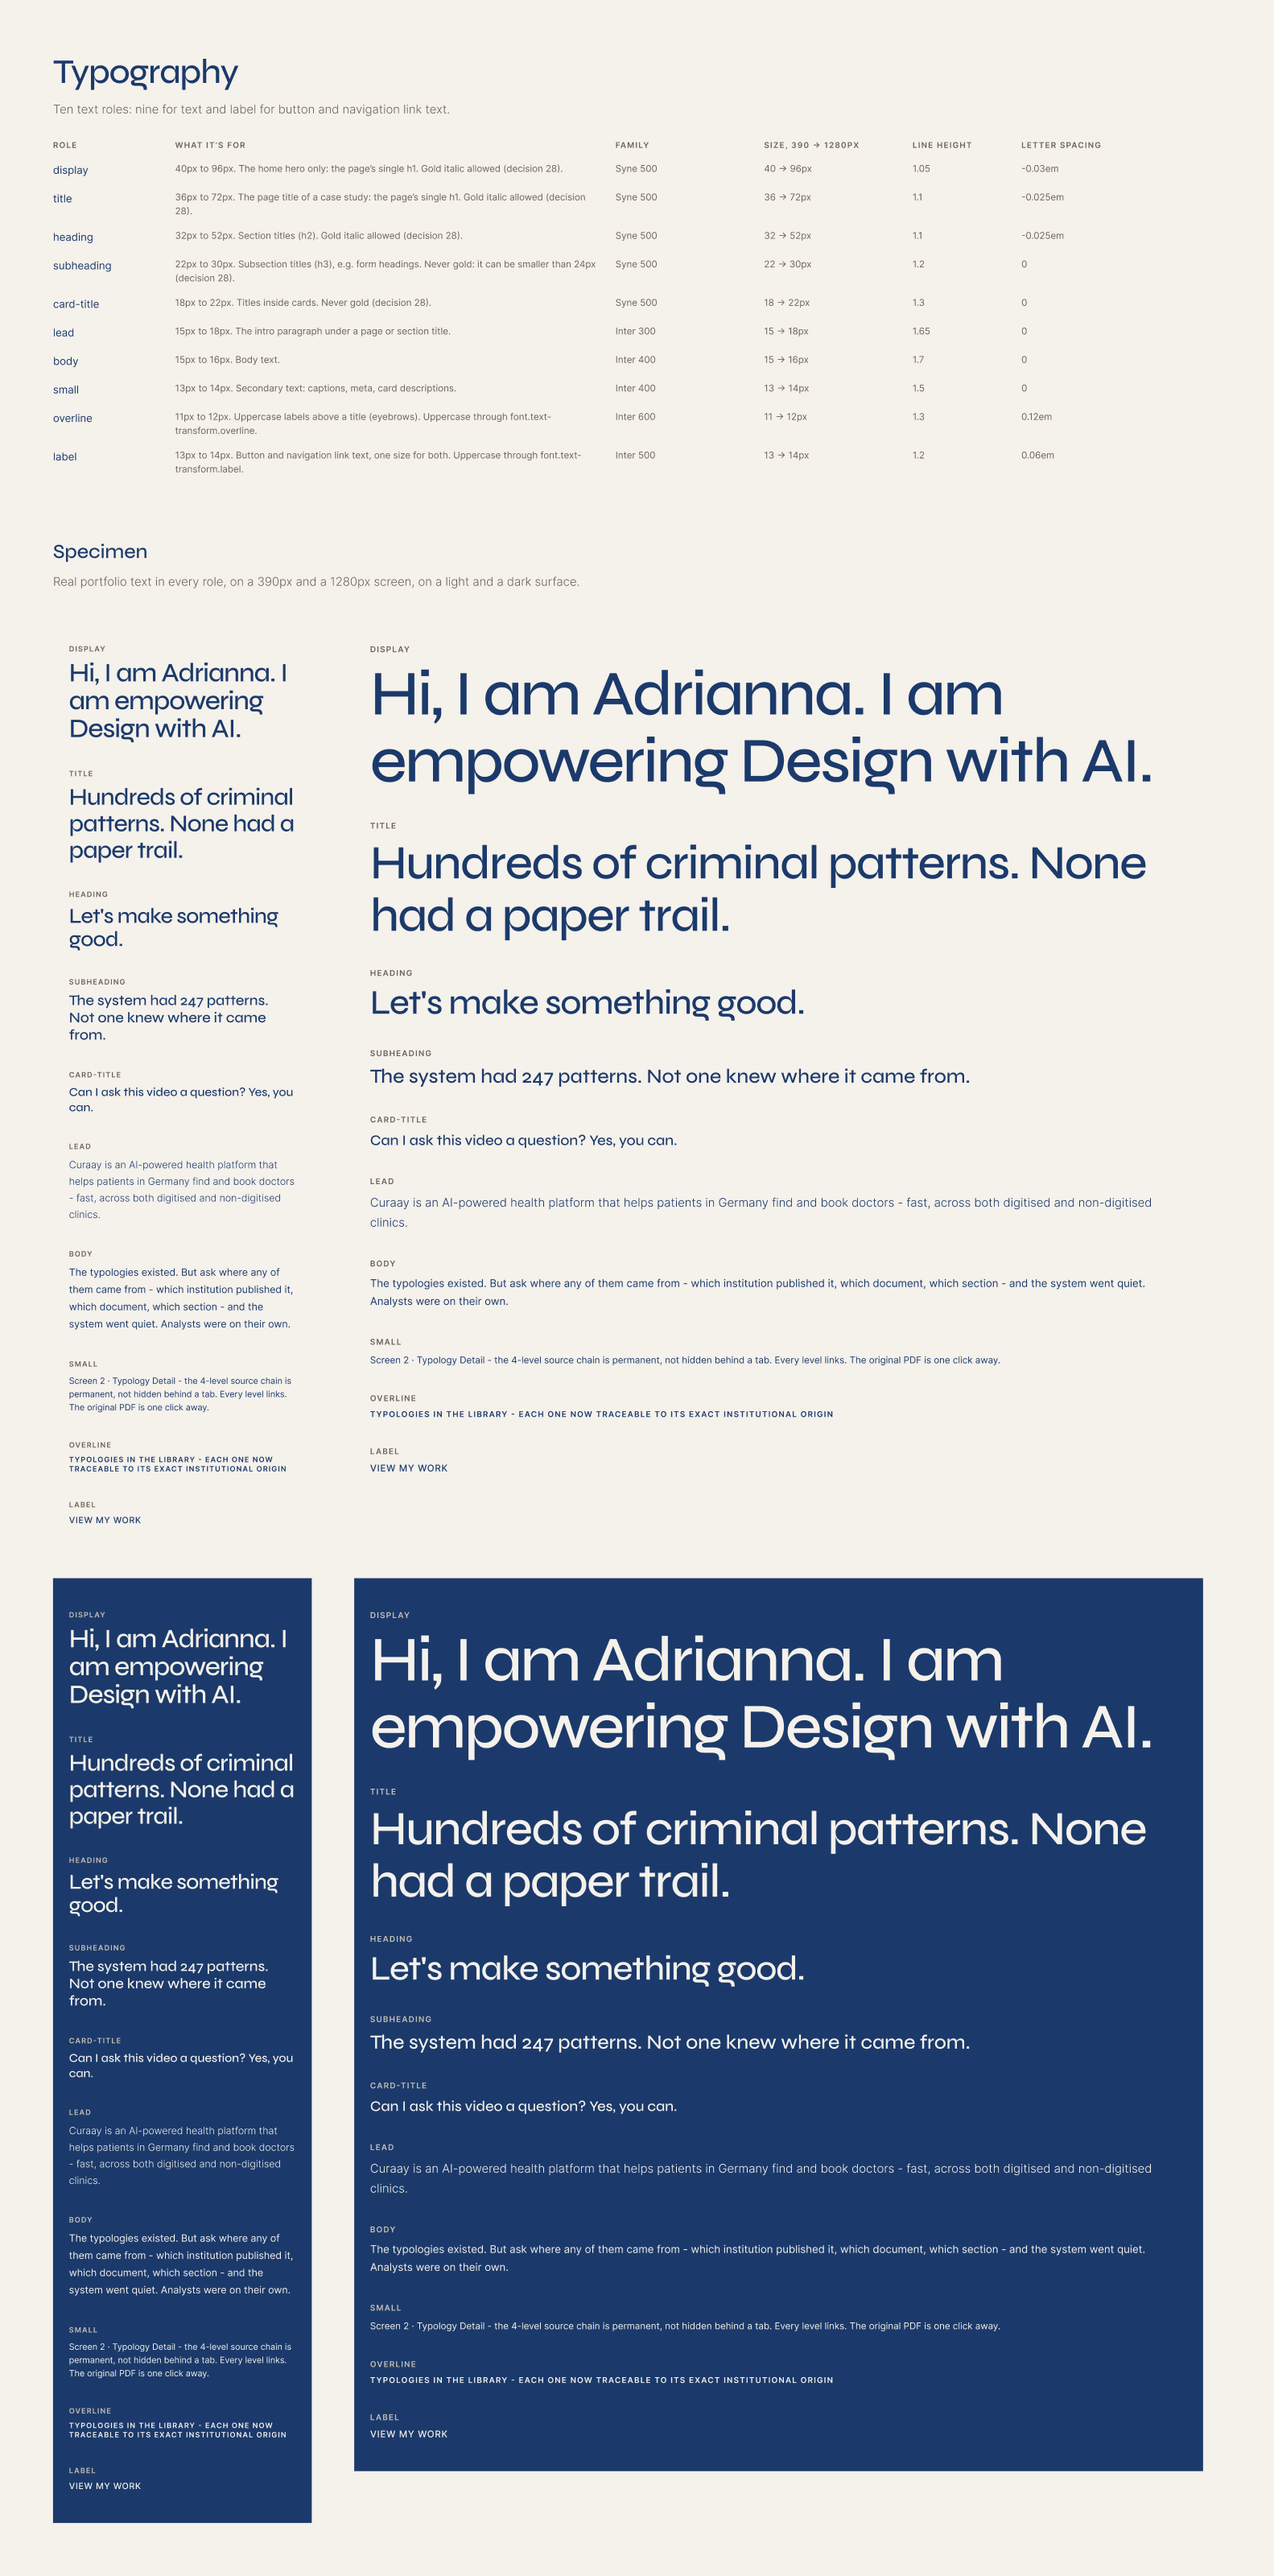
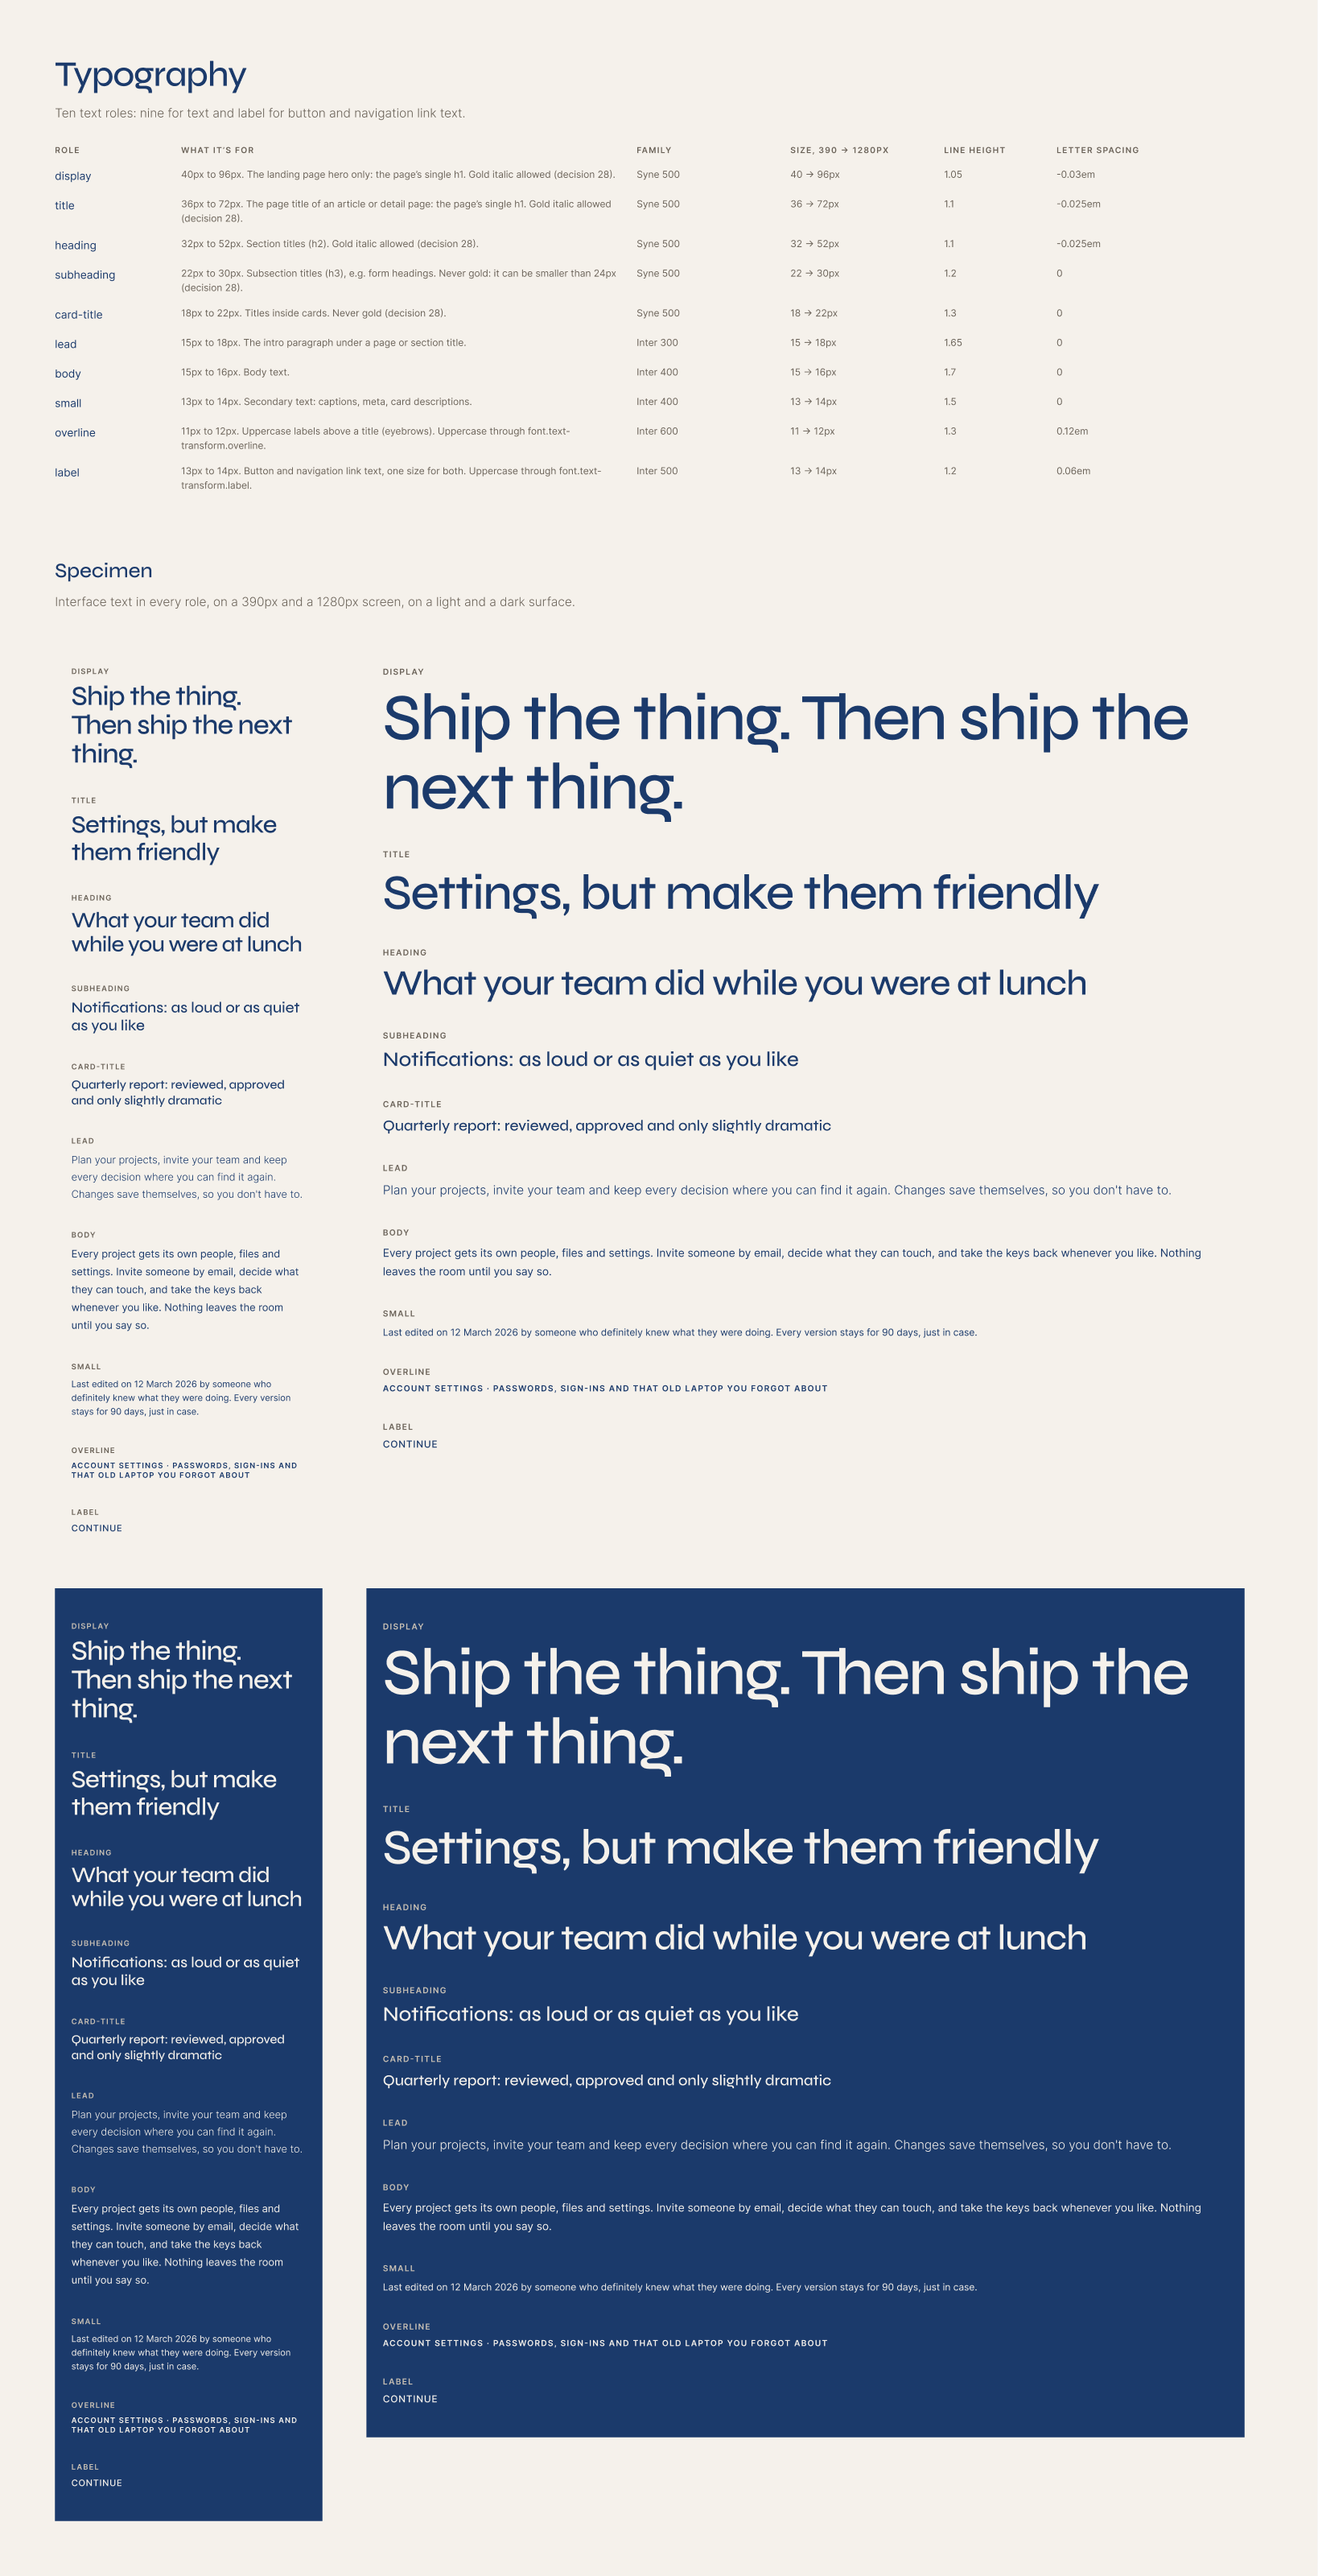
B-014 report: neutral texts

diff --git a/REPORT.md b/REPORT.md
@@ -1,102 +1,62 @@
-# B-013 · Report
+# B-014 · Report
 
 ## Commits
 
-- `components/button` of `adriadi/fajny-design-system`: **`a140fff`** "Button page top to bottom with "Variants"; page frames fit their shadows", pushed (`e34a9e4..a140fff`). Not merged.
-- `npm run build` passes all 11 steps; `tokens/css/tokens.css` is unchanged.
-- In Figma I ran the four generated files, full text and unchanged, as in B-012: `color-collection.js`, `typography-collection.js`, `foundations-pages.js`, `button-component.js`. No text changed anywhere (task 3 is a proposal only).
+- `components/button` of `adriadi/fajny-design-system`: **`2df4cce`** "Neutral example texts across the system", pushed (`a140fff..2df4cce`). Not merged.
 
-## Button page
+## Build
 
-- **Component set:** back to the grid it had before B-012, one row per variant and one column per state, without labels.
-- **Order:** the page reads top to bottom: "Button" with its purpose, then "Component set", then "Variants" below it. The "Variants" title is the smaller size, the same as "Component set", and its subtitle is "Every variant in every state, on a light and a dark surface." The script builds every future component page in this order.
-- **Variant IDs:** unchanged, 22 updated and 0 created; the set is `41:68`.
+`npm run build` passes all 11 steps, with 46 contrast pairs passing. `tokens/css/tokens.css` changed only in its description comments.
 
-Screenshot: `figma-button.png`. With the labels gone, `figma-button-set.png` from B-012 was out of date, so I removed it from this branch.
+In Figma I ran the four generated files, full text and unchanged: `color-collection.js`, `typography-collection.js`, `foundations-pages.js`, `button-component.js`. The Button variant IDs are unchanged: 22 updated, 0 created, set `41:68`.
 
-## Room for shadows
+## What changed
 
-Each page script now ends by measuring every shadow on the page as Figma draws it. It then grows the page frame by whatever reaches past an edge (more padding on that side, or more width).
+1. **Typography specimen:** the ten texts from the brief, exactly as given.
+2. **Button labels:** Continue, Learn more, Read more, Contact, and Loading… while loading. They're in the Figma set, `docs/button-preview.html` (through `scripts/build-button-preview.js`), `docs/button.md` and the usage comment in `components/button.css`.
+3. **`docs/button.md` examples:** every replacement from the B-013 table.
+4. **Token descriptions:** the 10 replacements, in the token JSON. After the rebuild they also appear in the CSS comments, the Colors, Spacing, Corner radius and Typography pages, and the `color` and `typography` variable descriptions.
+5. **README:** the Specimen line now starts "Interface text in every role …".
+6. **Comments in `scripts/build-figma-type.js`:** the comment above the samples is replaced, and so is the file's header line, which said "real portfolio text".
+7. **Button page subtitle:** "A control that takes the user somewhere or does something." The script takes it from the first sentence of `docs/button.md`, so I changed it there and it stays on reruns.
 
-On the Shadows page, the frame's bottom padding went from 80 to 96px, so `shadow/overlay` now ends inside it. A read-back of all pages found no shadow outside its frame.
+**Tokens Studio:** the new descriptions for primitives, spacing and radius are in `tokens/figma/tokens-studio.json`, but Tokens Studio writes the variables in Figma itself. The variables in the `primitives`, `spacing` and `radius` collections will show the old descriptions until you re-import that file (Tools → Load from file). The documentation pages already show the new descriptions.
 
-Screenshot: `figma-shadows.png`.
+## Wrap check (390px frame)
 
-## Neutral texts: proposal
+Every text that wrapped before still wraps to at least two lines, and label stays on one line. Line counts, read from Figma:
 
-Nothing below is changed yet.
+| Role | Lines at 390px |
+| --- | --- |
+| display | 3 |
+| title | 2 |
+| heading | 2 |
+| subheading | 2 |
+| card-title | 2 |
+| lead | 3 |
+| body | 5 |
+| small | 3 |
+| overline | 2 |
+| label | 1 |
 
-### Typography specimen (`scripts/build-figma-type.js`, the Typography page)
+## Search for portfolio text (task 7)
 
-Each proposed text wraps to at least two lines on the 390px frame wherever the current one does. Label stays one line.
+I searched every tracked file except `DECISIONS.md` for: Adrianna, case stud(y/ies), CV, portfolio, Let's talk, View my work, Download CV, Hawk, Curaay, Scouting, Calendly, typolog(y/ies), next-project, pain point, visitor and Send message. Two places came back:
 
-| Role | Current text | Proposed text |
-| --- | --- | --- |
-| display | Hi, I am Adrianna. I am empowering Design with AI. | Plan, build and ship with one shared system |
-| title | Hundreds of criminal patterns. None had a paper trail. | Project settings and team access |
-| heading | Let's make something good. | Recent activity in your workspace |
-| subheading | The system had 247 patterns. Not one knew where it came from. | Notification preferences for email and mobile |
-| card-title | Can I ask this video a question? Yes, you can. | Quarterly report: ready for your review and approval |
-| lead | Curaay is an AI-powered health platform that helps patients in Germany find and book doctors - fast, across both digitised and non-digitised clinics. | Manage your projects, invite your team and keep every decision in one place. Changes are saved as you go. |
-| body | The typologies existed. But ask where any of them came from - which institution published it, which document, which section - and the system went quiet. Analysts were on their own. | Each project has its own members, files and settings. Invite people by email, choose what they can edit, and remove access at any time. Nothing is shared until you say so. |
-| small | Screen 2 · Typology Detail - the 4-level source chain is permanent, not hidden behind a tab. Every level links. The original PDF is one click away. | Last edited 12 March 2026 by the project owner. Version history keeps every change for 90 days. |
-| overline | Typologies in the library - each one now traceable to its exact institutional origin | Account settings · Security, sign-in and connected devices |
-| label | View my work | Continue |
+- README "Why" section: left alone, as you said.
+- `style-dictionary.config.js`, line 32, a code comment: "spacing and radius stay in px like the portfolio". See question 1.
 
-### Button labels
+I also checked "hero" and "contact": they appear in generic descriptions ("Hero and contact blocks.", "Alternate sections, e.g. the contact section.", "The landing page hero only"). These are common page parts, not portfolio examples, so I left them unchanged.
 
-The labels appear in the Figma set (`scripts/build-figma-button.js`), in `docs/button-preview.html` (generated by `scripts/build-button-preview.js`), in `docs/button.md` and in the usage comment at the top of `components/button.css`.
+## Screenshots
 
-| Variant | Current label | Proposed label |
-| --- | --- | --- |
-| Primary | View my work | Continue |
-| Secondary | Download CV | Learn more |
-| Link | Case studies | Read more |
-| Navigation | Let's talk | Contact |
-| Loading state (Primary, Secondary, Navigation) | Sending… | Loading… |
+- `figma-typography.png`: the Typography page with the new specimen.
+- `figma-button.png`: the Button page with the new labels and subtitle.
 
-### `docs/button.md`, other examples
+## Questions
 
-| Place | Current text | Proposed text |
-| --- | --- | --- |
-| Variants table, Primary "Use it for" | "View my work", "Send message" | "Continue", "Save changes" |
-| Variants table, Secondary "Use it for" | "Download CV" | "Learn more" |
-| Variants table, Link "Use it for" | "Case studies", "Experience" | "Read more", "Pricing" |
-| Navigation size | ("Let's talk") | ("Contact") |
-| Do and don't | "Send message", "View my work" | "Save changes", "Continue" |
-| HTML, primary | `href="#work"` View my work | `href="#next"` Continue |
-| HTML, secondary | Download CV | Learn more |
-| HTML, link | `href="#experience"` Experience | `href="#pricing"` Pricing |
-| HTML, navigation | `href="#contact"` Let's talk | `href="#contact"` Contact |
-| HTML, with an icon | `href="#work"` View my work | `href="#next"` Continue |
-| HTML, disabled | Send message; "Fill in your name and email to send." | Save changes; "Fill in your name and email to continue." |
-| HTML, loading | Sending…; "Sending your message…" | Saving…; "Saving your changes…" |
-| HTML, dark surface | `href="https://calendly.com/…"` Schedule a call; `href="#cv"` Download CV | `href="#demo"` Book a demo; `href="#guide"` Learn more |
+1. **Comment in `style-dictionary.config.js`.** It reads: "The built-in 'css' group minus 'size/rem': spacing and radius stay in px like the portfolio, and font sizes are already written in rem inside clamp(), which size/rem can't parse."
+   - A: Change "like the portfolio" to "as authored", so the comment says why without naming a user: "spacing and radius stay in px as authored, and font sizes …".
+   - B: Leave it.
 
-### Token descriptions that use the portfolio as the example
-
-These are descriptions, not sample text, but they name portfolio pages or say the palette comes from the portfolio. They also show in Figma (variable descriptions, the Colors, Spacing, Corner radius and Typography pages) and in the generated CSS comments.
-
-| Token | Current description | Proposed description |
-| --- | --- | --- |
-| primitives group | Raw palette, taken from the portfolio (adriannadziadyk.de). Components and agents never use these directly: use the semantic color-* tokens. | Raw palette. Components and agents never use these directly: use the semantic color-* tokens. |
-| `red.700` | Error. oklch(50% 0.18 25), from the portfolio's contact form. | Error. oklch(50% 0.18 25). |
-| `green.700` | Success. oklch(45% 0.15 140), from the portfolio's CV modal. | Success. oklch(45% 0.15 140). |
-| `navy.100` | Case-study pull-quote background. | Pull-quote background. |
-| `color.action` | Primary button background, including case-study buttons such as View prototype. On a dark surface … | Primary button background. On a dark surface … (rest unchanged) |
-| `space.5` | Paragraph spacing in case studies, grid gaps. | Paragraph spacing in long-form text, grid gaps. |
-| `space.16` | Large blocks, e.g. the next-project block. | Large blocks, e.g. a closing call-to-action block. |
-| `radius.sm` | Small inline blocks: pull quotes, metrics, pain points. Never buttons. | Small inline blocks: pull quotes, metrics, callouts. Never buttons. |
-| `font.size.display` | 40px to 96px. The home hero only: the page's single h1. … | 40px to 96px. The landing page hero only: the page's single h1. … (rest unchanged) |
-| `font.size.title` | 36px to 72px. The page title of a case study: the page's single h1. … | 36px to 72px. The page title of an article or detail page: the page's single h1. … (rest unchanged) |
-
-### Other places
-
-| Place | Current text | Proposed text |
-| --- | --- | --- |
-| README, Typography section, "Specimen" line (the specimen subtitle in Figma) | Real portfolio text in every role, on a 390px and a 1280px screen, on a light and a dark surface. | Interface text in every role, on a 390px and a 1280px screen, on a light and a dark surface. |
-| `scripts/build-figma-type.js`, comments above the samples | "Specimen text … from the portfolio (adriadi/portfolio, main)", with one source page per text | "Specimen text: neutral interface text, long enough to wrap where a role wraps in a product" |
-| README, "Why" section | "I gave an AI agent the same task twice in my portfolio's codebase …" | No change proposed: it's the story of why the system exists, not an example. |
-| README, "Use the tokens" example | "Muted text, light on navy" | No change needed: already neutral. |
-
-No questions.
+   **Recommendation: A.** The reason the comment gives is the token values themselves, not the portfolio.
